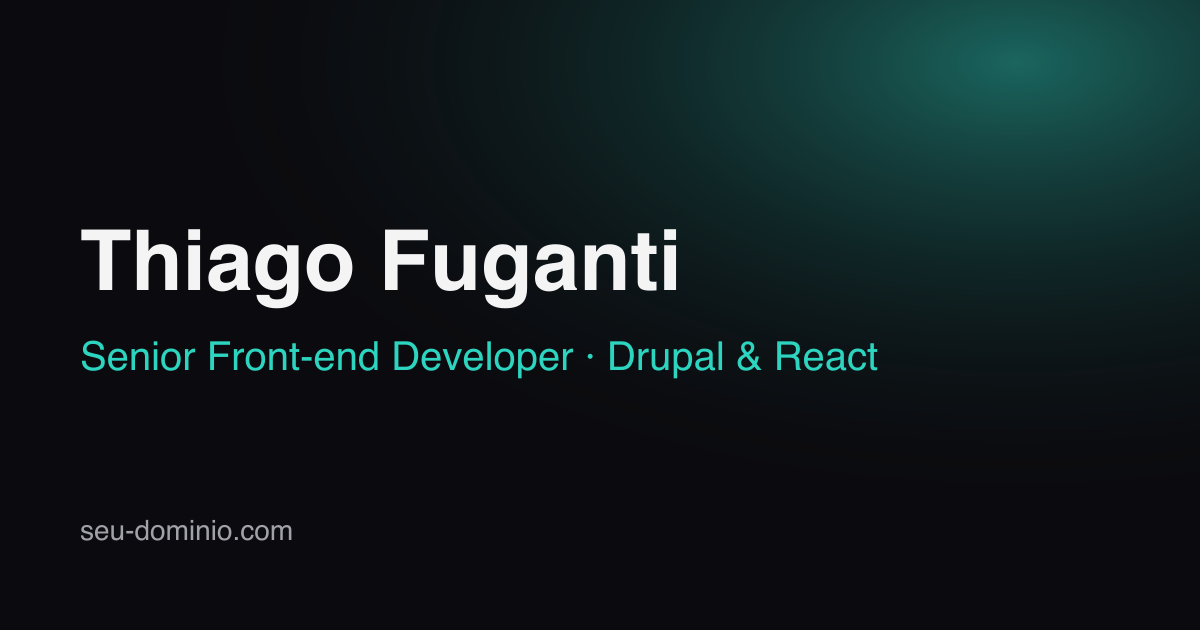
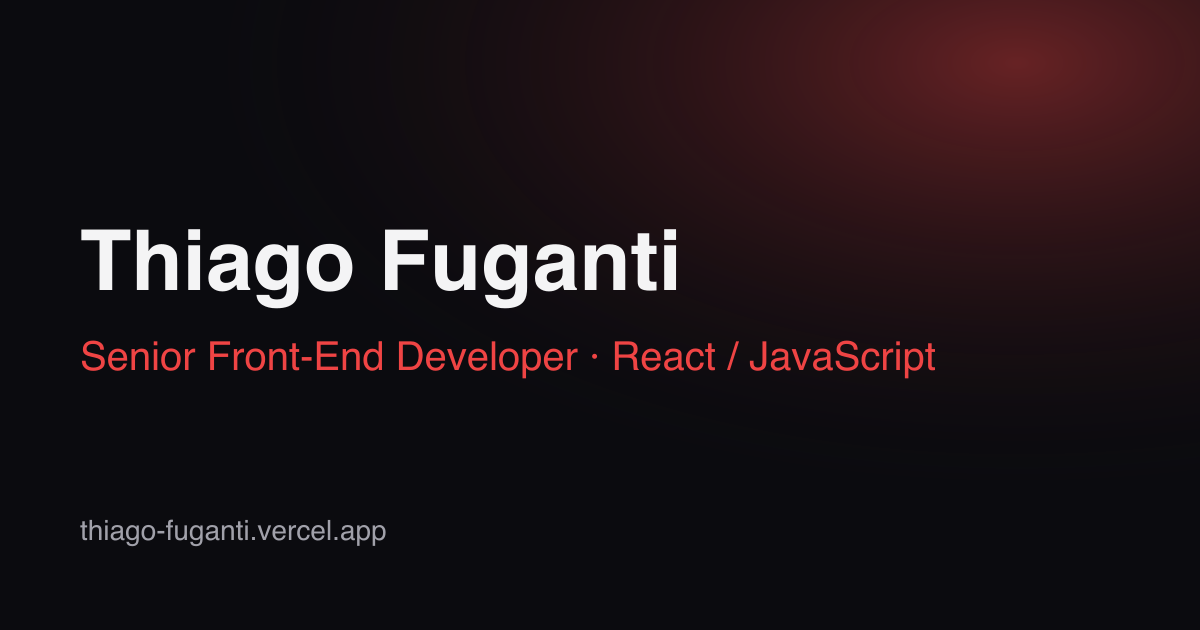
Set site URL and update share image

Changed region(s): [[0.5242, 0.0, 1.0, 0.4222], [0.0617, 0.5429, 0.8017, 0.6032], [0.0617, 0.8143, 0.3392, 0.8746]]

diff --git a/README.md b/README.md
@@ -4,6 +4,8 @@ My personal portfolio: a fast, accessible static site that presents who I am, th
 
 Built with Astro and Tailwind CSS.
 
+**[Live site →](https://thiago-fuganti.vercel.app)**
+
 <p align="center">
   <img src="docs/screenshots/home.png" alt="Portfolio home page in the dark theme" width="420" />
   <img src="docs/screenshots/home-light.png" alt="Portfolio home page in the light theme" width="420" />
